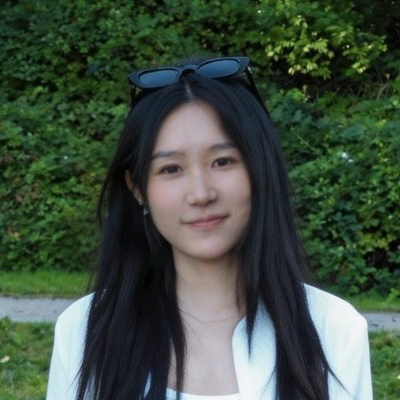
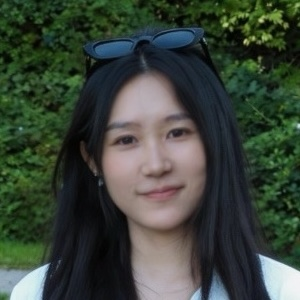
panellists minor changes

diff --git a/conference/index.html b/conference/index.html
@@ -2163,9 +2163,14 @@
   </div>
 
   <div id="Career Panel" class="tabcontent">
+    
     <h1>
       Career Panel
     </h1>
+
+    <h2>
+      4:30-5:15 PM @ LSC 1
+    </h2>
   
     <table id="Herberts">
       <tr>
@@ -2182,13 +2187,8 @@
         </td>
       </tr>
       <tr>
-        <td class="room">
-          4:30-5:15 PM @ LSC 1
-        </td>
-      </tr>
-      <tr>
         <td class="abstract">
-          Translational Medicine Scientist at Natera. Works closely with global academic and BioPharma collaborators to design, execute, and analyze correlative and ctDNA-guided interventional clinical trials, aiming to define how ctDNA can be incorporated into clinical management paradigms. Dr. Herberts completed his BSc in Biophysics (2018) and PhD (2024) at The University of British Columbia. During his doctoral training with Dr. Alexander Wyatt in the Department of Urologic Sciences, he helped develop blood-based circulating tumour DNA (ctDNA) approaches for (epi)genomic biomarker characterization, supporting the integration of this new technology into routine clinical care for metastatic prostate cancer. He is now a Translational Medicine Scientist at Natera focusing on ctDNA clinical evidence generation across genitourinary cancers. Cameron works with global academic and BioPharma collaborators to design, execute, and analyze correlative and ctDNA-guided interventional clinical trials, aiming to define how ctDNA can be incorporated into clinical management paradigms.
+          Dr. Herberts works closely with global academic and BioPharma collaborators to design, execute, and analyze correlative and ctDNA-guided interventional clinical trials, aiming to define how ctDNA can be incorporated into clinical management paradigms. He completed his BSc in Biophysics (2018) and PhD (2024) at The University of British Columbia. During his doctoral training with Dr. Alexander Wyatt in the Department of Urologic Sciences, he helped develop blood-based circulating tumour DNA (ctDNA) approaches for (epi)genomic biomarker characterization, supporting the integration of this new technology into routine clinical care for metastatic prostate cancer. He is now a Translational Medicine Scientist at Natera focusing on ctDNA clinical evidence generation across genitourinary cancers. Cameron works with global academic and BioPharma collaborators to design, execute, and analyze correlative and ctDNA-guided interventional clinical trials, aiming to define how ctDNA can be incorporated into clinical management paradigms.
         </td>
       </tr>
     </table>
@@ -2207,13 +2207,8 @@
         </td>
       </tr>
       <tr>
-        <td class="room">
-          4:30-5:15 PM @ LSC 1
-        </td>
-      </tr>
-      <tr>
         <td class="abstract">
-          Dr. Alexander Morin is a 'Senior Bioinformatics Analyst' at DNAstack. He works with the Michael J. Fox Foundation (MJFF) to platform Parkinson's Disease data that has been generated by MJFF-funded researchers as part of an Open Science initiative. In this capacity, their bioinformatics team creates infrastructure to accept and curate data, develops standardized metadata schemas, and builds data processing pipelines to assist with meta-analysis efforts.
+          Dr. Morin works with the Michael J. Fox Foundation (MJFF) to platform Parkinson's Disease data that has been generated by MJFF-funded researchers as part of an Open Science initiative. In this capacity, their bioinformatics team creates infrastructure to accept and curate data, develops standardized metadata schemas, and builds data processing pipelines to assist with meta-analysis efforts.
         </td>
       </tr>
     </table>
@@ -2229,11 +2224,6 @@
       <tr>
         <td class="speaker">
           Bioinformatics Software Engineer @ eDNA Explorer
-        </td>
-      </tr>
-      <tr>
-        <td class="room">
-          4:30-5:15 PM @ LSC 1
         </td>
       </tr>
       <tr>
@@ -2254,11 +2244,6 @@
       <tr>
         <td class="speaker">
           Bioinformatician @ Roche
-        </td>
-      </tr>
-      <tr>
-        <td class="room">
-          4:30-5:15 PM @ LSC 1
         </td>
       </tr>
       <tr>
